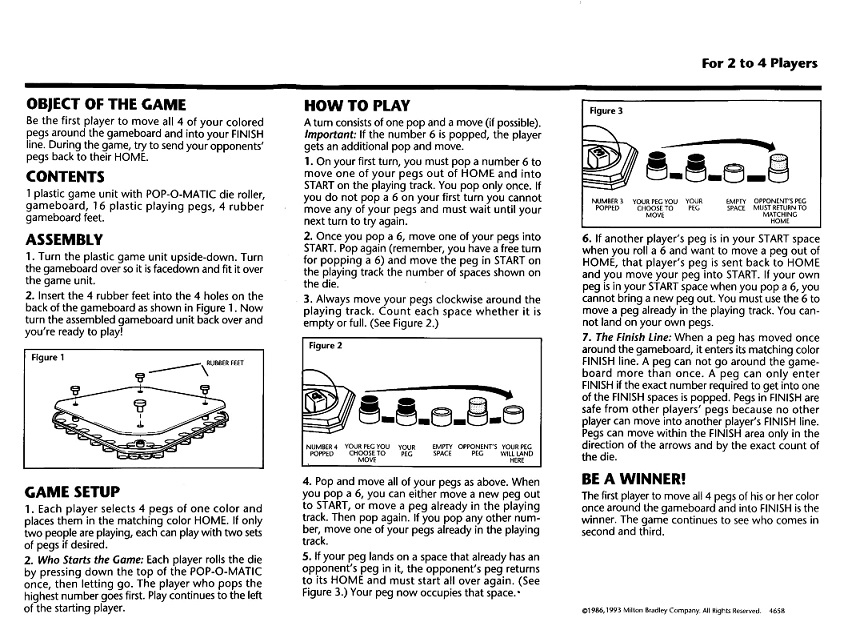
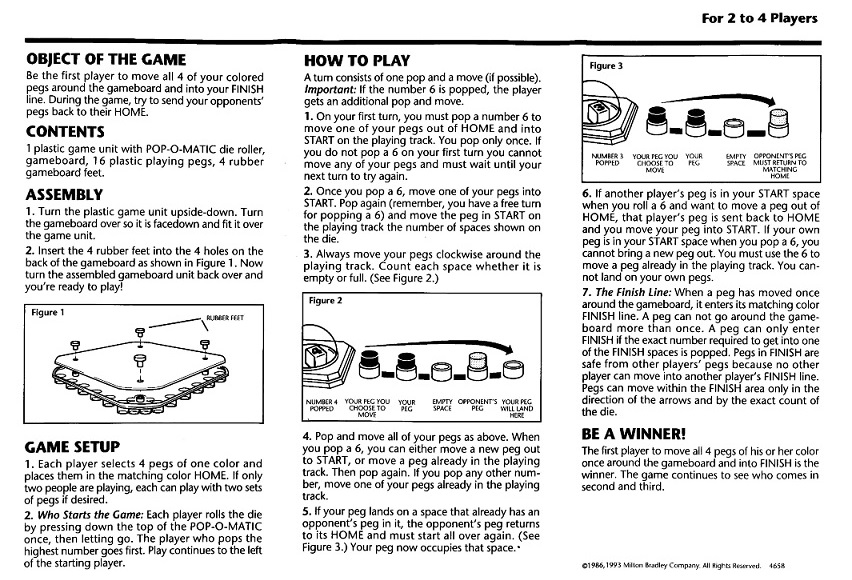
Resized and centred manual to fit screen

diff --git a/src/troublegame/client/panels/RulesPanel.java b/src/troublegame/client/panels/RulesPanel.java
@@ -10,8 +10,7 @@ import java.io.File;
 import java.io.IOException;
 
 import javax.imageio.ImageIO;
-import javax.swing.JButton;
-import javax.swing.JPanel;
+import javax.swing.*;
 
 import troublegame.client.Interface;
 import troublegame.client.SwingUI;
@@ -80,7 +79,7 @@ public class RulesPanel extends JPanel {
 	@Override
 	protected void paintComponent(Graphics g) {
 		super.paintComponent(g);
-		g.drawImage(image, 0, 0, this);
+		g.drawImage(image, 89, 0, this);
 	}
 	/**
 	 * @return the swing user interface.
